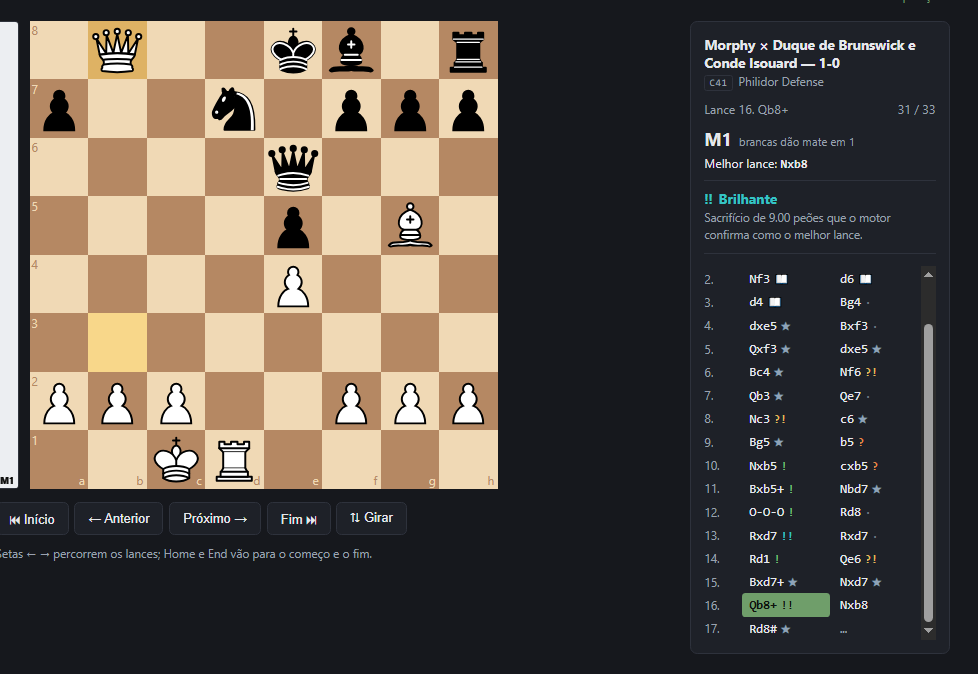
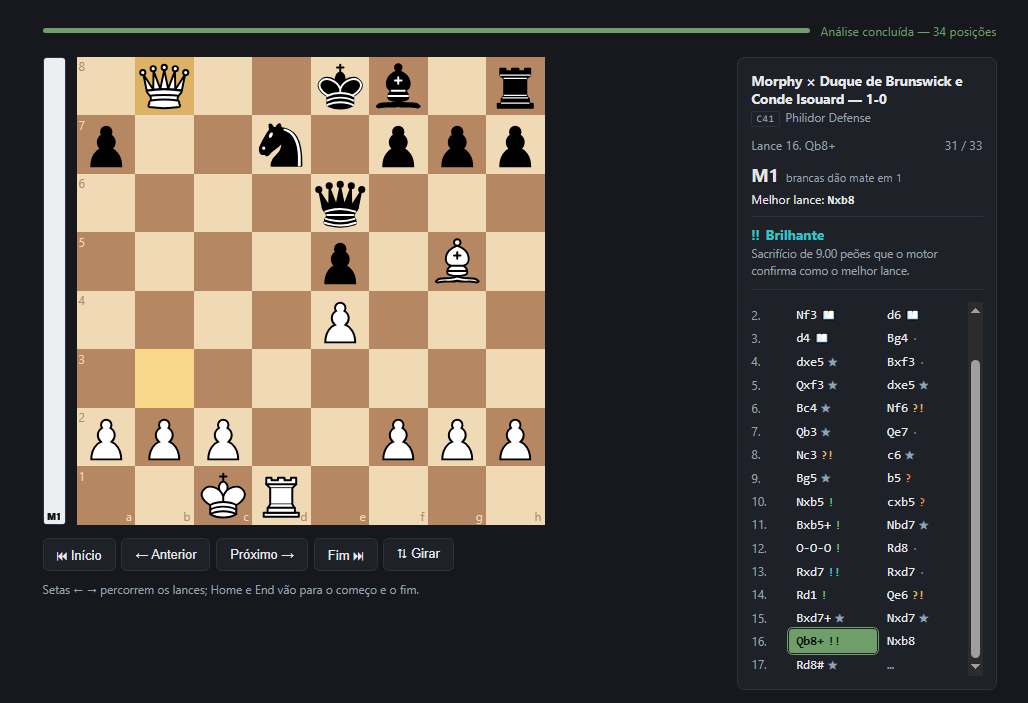
docs: captura com a eval bar no enquadramento
A captura anterior cortava a eval bar na borda esquerda. A nova mostra
ela inteira — toda branca, com M1 na base — e a barra de progresso
concluída no topo.

O texto alternativo passa a mencioná-la, já que é um dos elementos que o
README descreve e agora está visível.

diff --git a/README.md b/README.md
@@ -8,7 +8,7 @@ jogado isso".
 Tudo roda no navegador. Não há servidor, banco, login ou chamada de rede
 depois que a página carrega.
 
-![A Ópera de Morphy na posição de 16.Qb8+: o tabuleiro à esquerda e, à direita, o painel com a abertura reconhecida, a avaliação de mate em 1, o melhor lance e a classificação Brilhante com o motivo, acima da lista de lances marcada com a classificação de cada um](docs/captura.png)
+![A Ópera de Morphy na posição de 16.Qb8+: a eval bar totalmente branca à esquerda do tabuleiro e, à direita, o painel com a abertura reconhecida, a avaliação de mate em 1, o melhor lance e a classificação Brilhante com o motivo, acima da lista de lances marcada com a classificação de cada um](docs/captura.png)
 
 **No ar em [analise-xadrez.netlify.app](https://analise-xadrez.netlify.app)**
 
